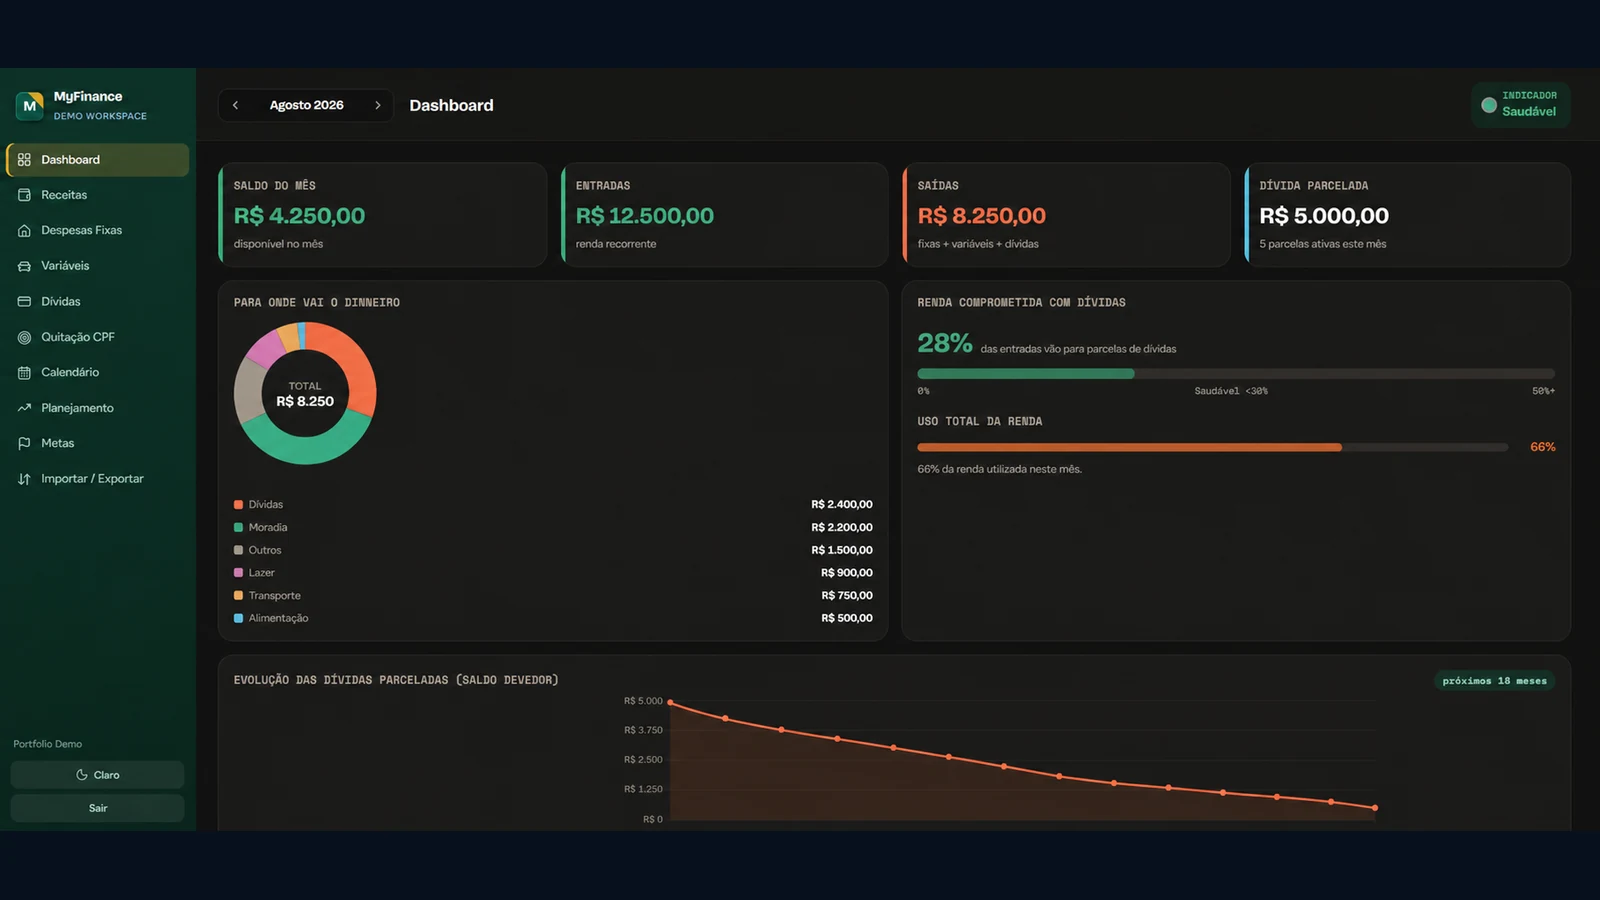
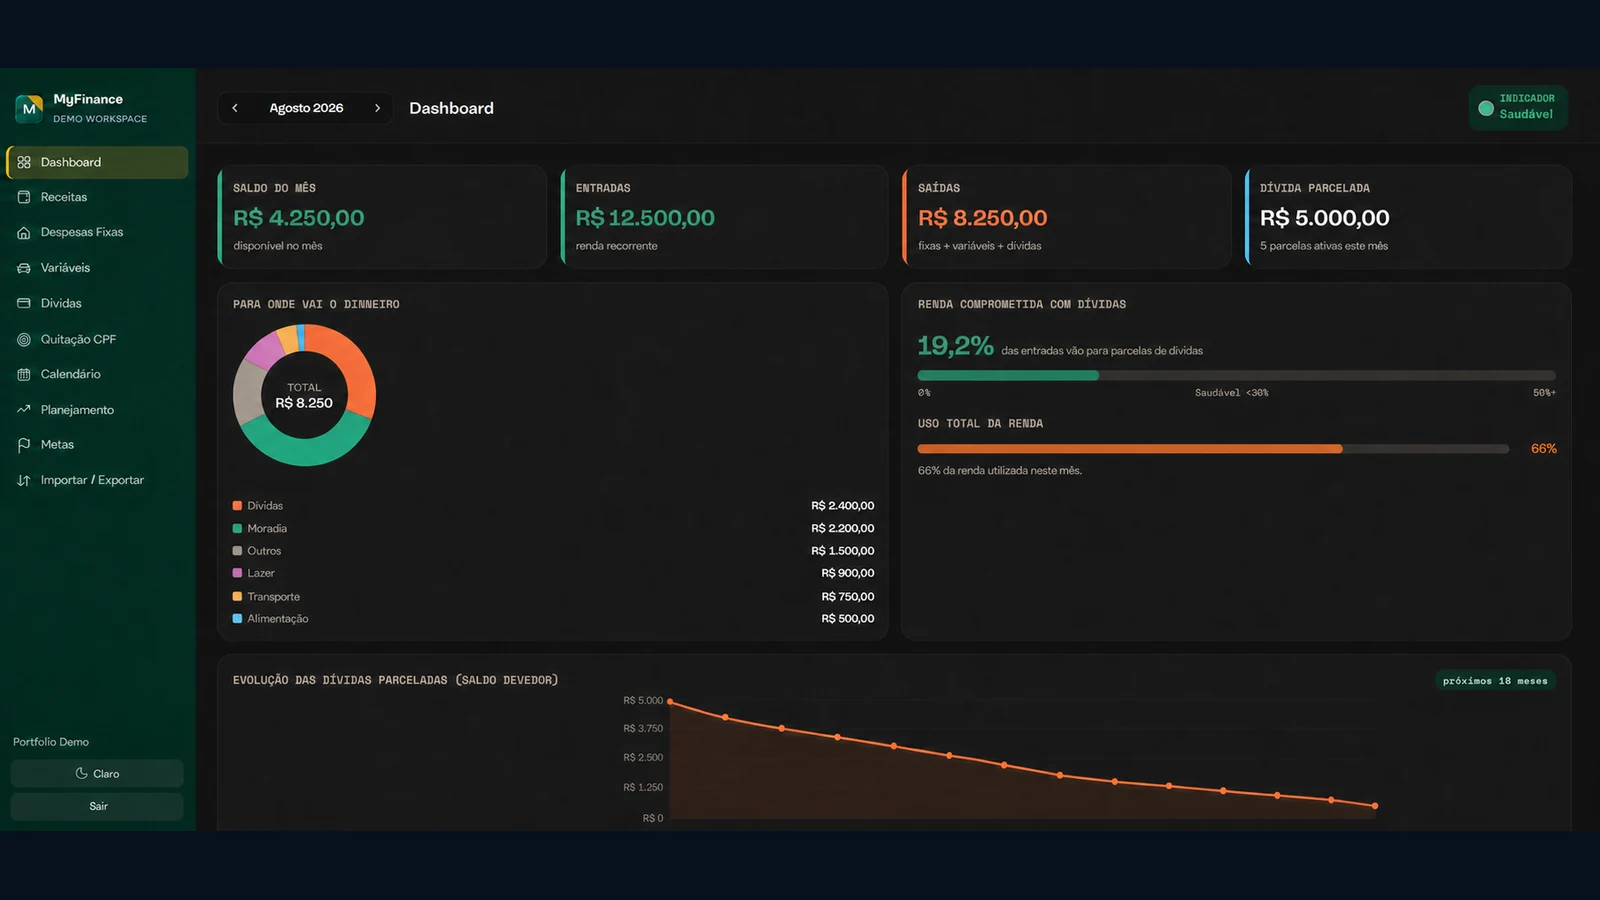
fix: align MyFinance demo asset

diff --git a/src/components/ProjectCardLinks.tsx b/src/components/ProjectCardLinks.tsx
@@ -10,7 +10,7 @@ interface ProjectCardLinksProps {
 
 /**
  * Renderiza os botoes de acao (live site / GitHub) do cartao de projeto.
- * @author André Narcizo
+ * @author André Narcizo - andre.narcizo@sysout.com.br
  */
 const ProjectCardLinks = ({
   liveLink,
